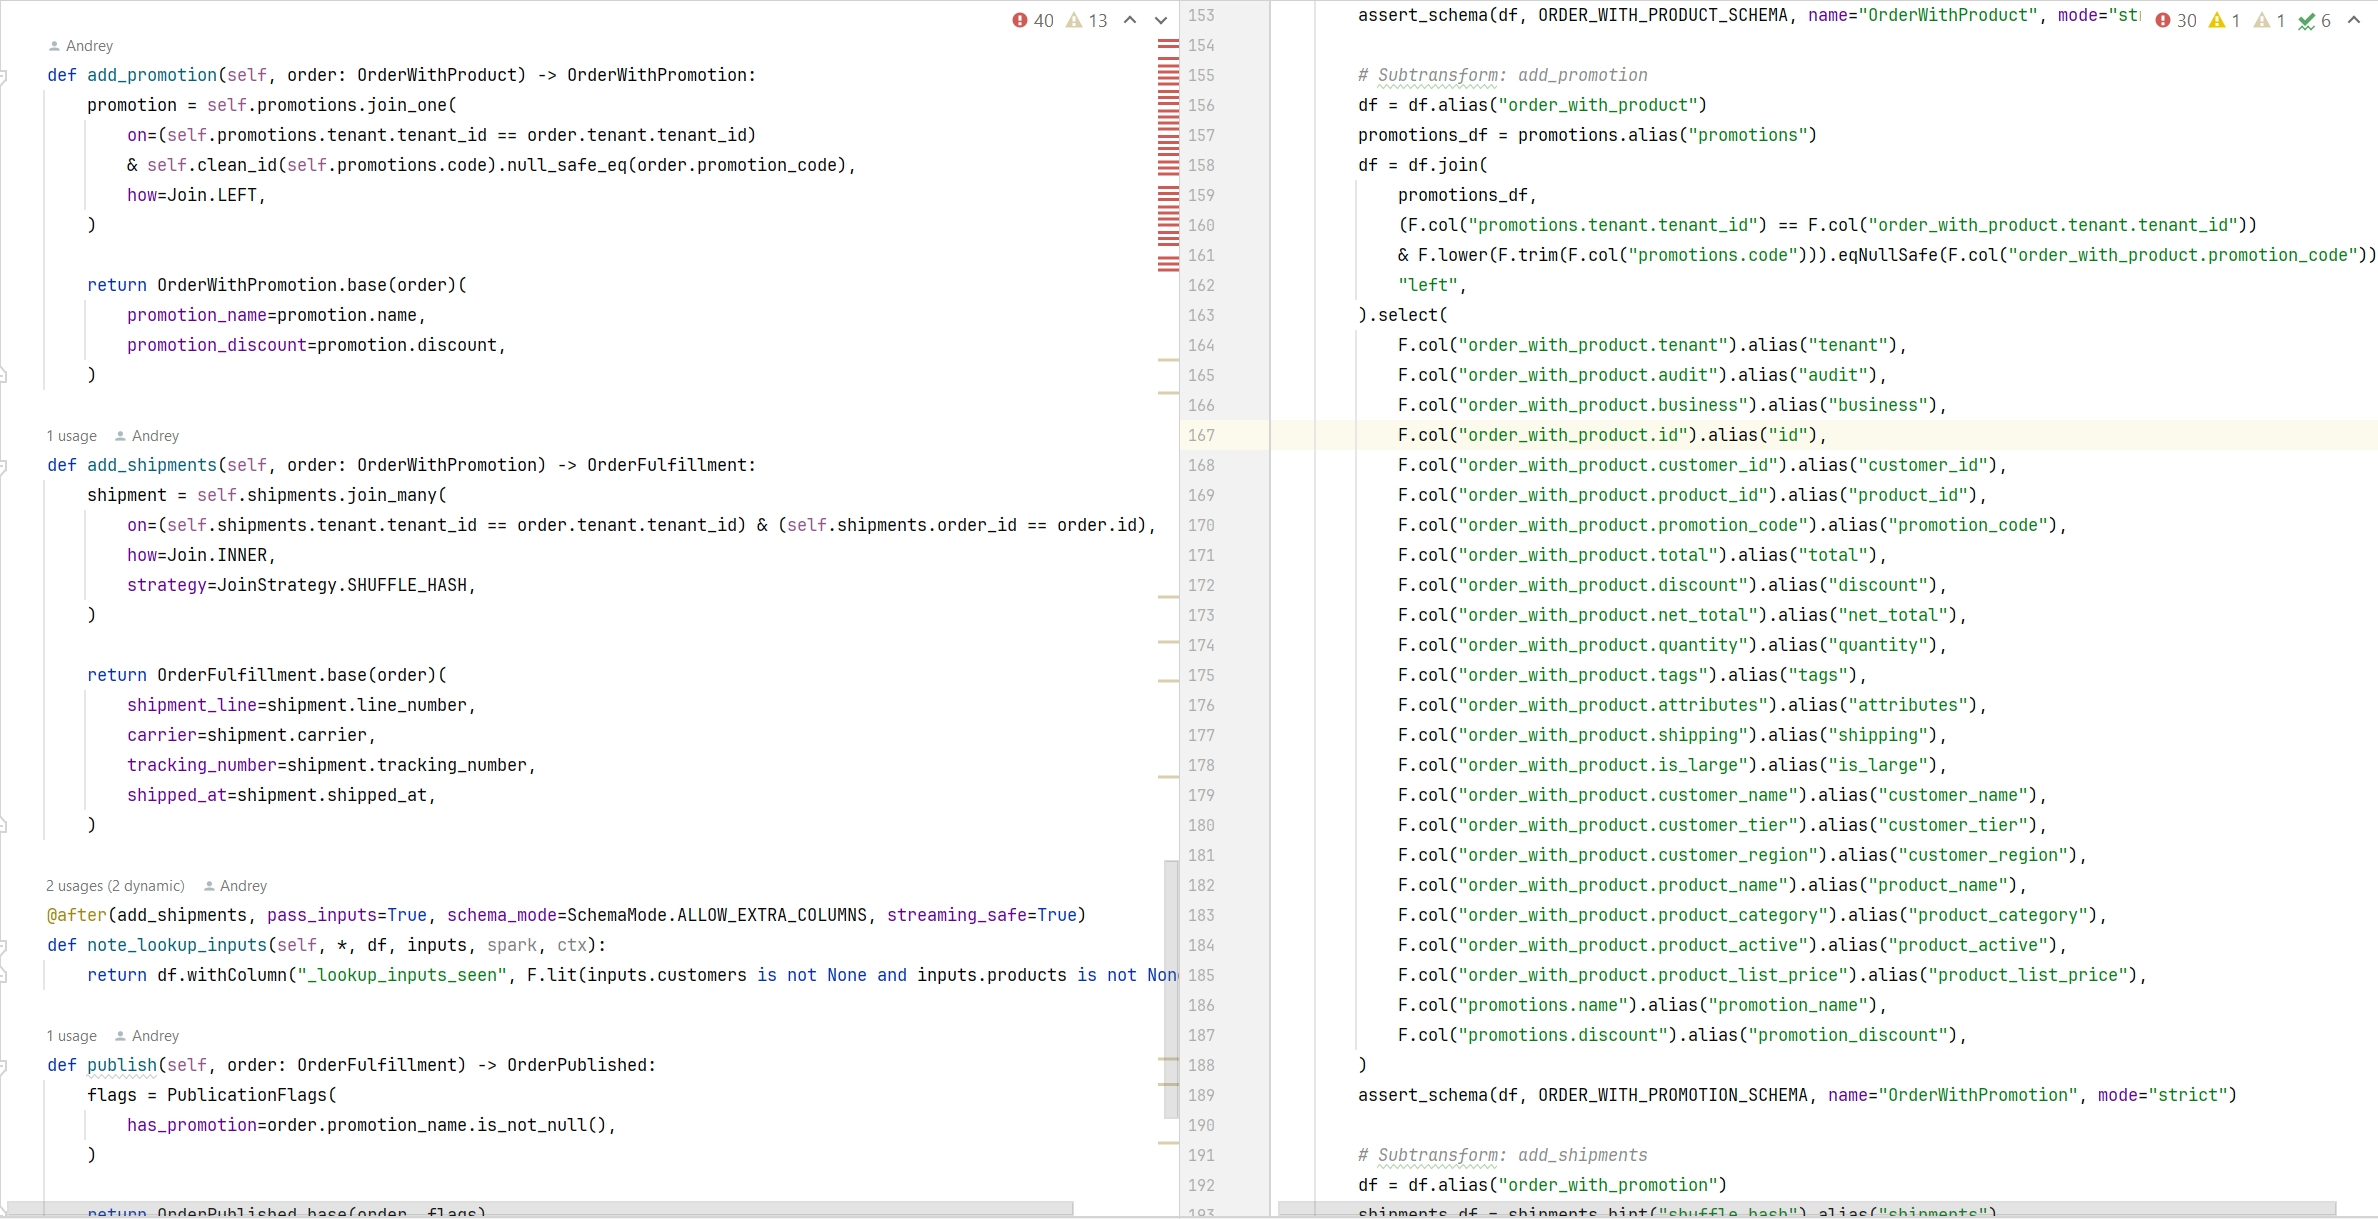
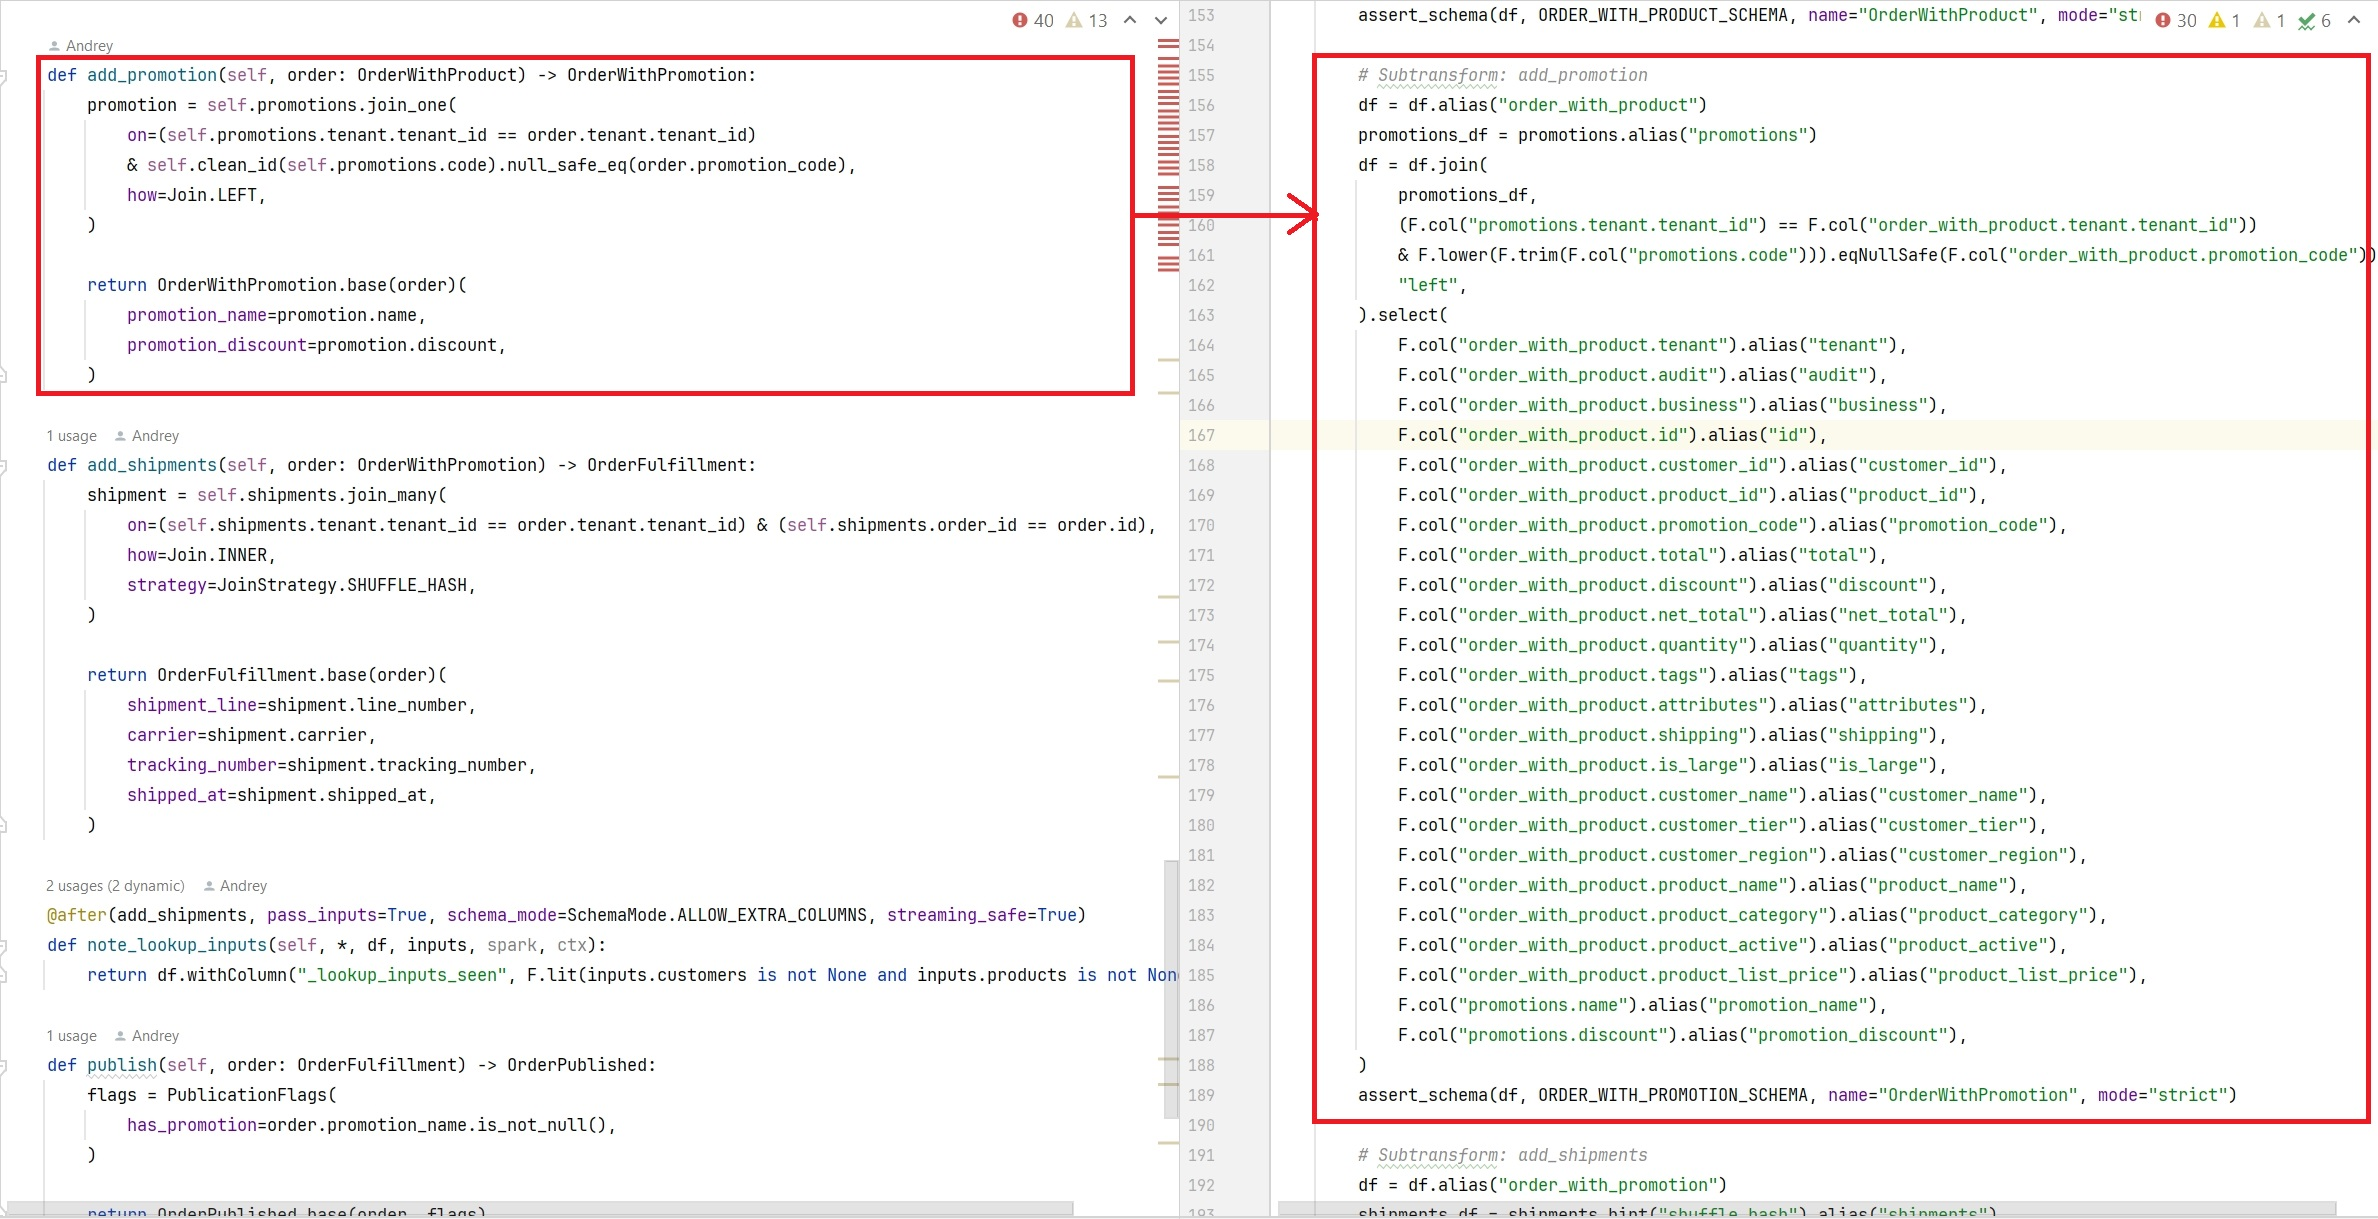
Readme: adjust

diff --git a/Readme.md b/Readme.md
@@ -1,10 +1,14 @@
 # Structure
 
-**Structure** is a Python-to-PySpark runtime compiler which allows writing Spark data pipelines in Pythonic way, creating optimizer-friendly PySpark code behind the scenes. It can also be used as PySpark code generator: output Python-style schemas and transformations as PySpark code. 
+**Structure** is a Python-to-PySpark runtime compiler which allows writing Spark data pipelines in Pythonic way, creating optimizer-friendly PySpark code behind the scenes. It can also be used as PySpark code generator: output the schemas and transformations as PySpark code. 
 
 ## Less Code, More Spark!
 
-Structure can help replace hand-maintained PySpark boilerplate. Structure pipelines express filtering, joins, projections and normalization in plain Python. 
+Structure can help replace hand-maintained PySpark boilerplate. 
+
+![add_promotion.screen](res/img/screenshots/add_promotion.screen.jpg)
+
+Structure pipelines express filtering, joins, projections and normalization as plain Python. 
 
 First, define schemas. Second, define transforms (pipelines).
 